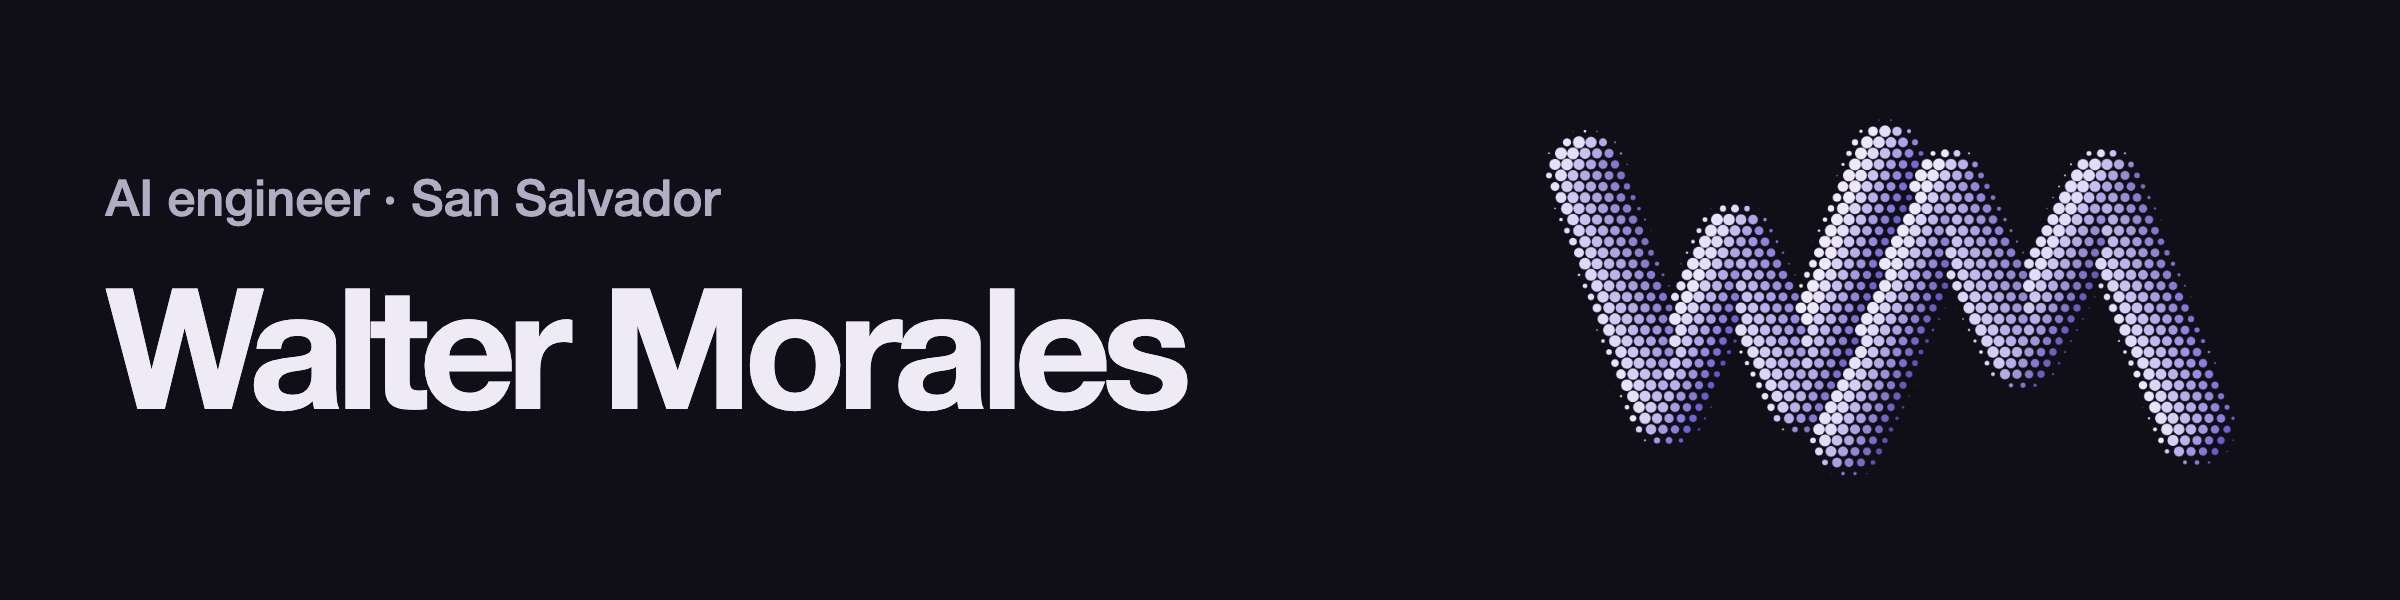
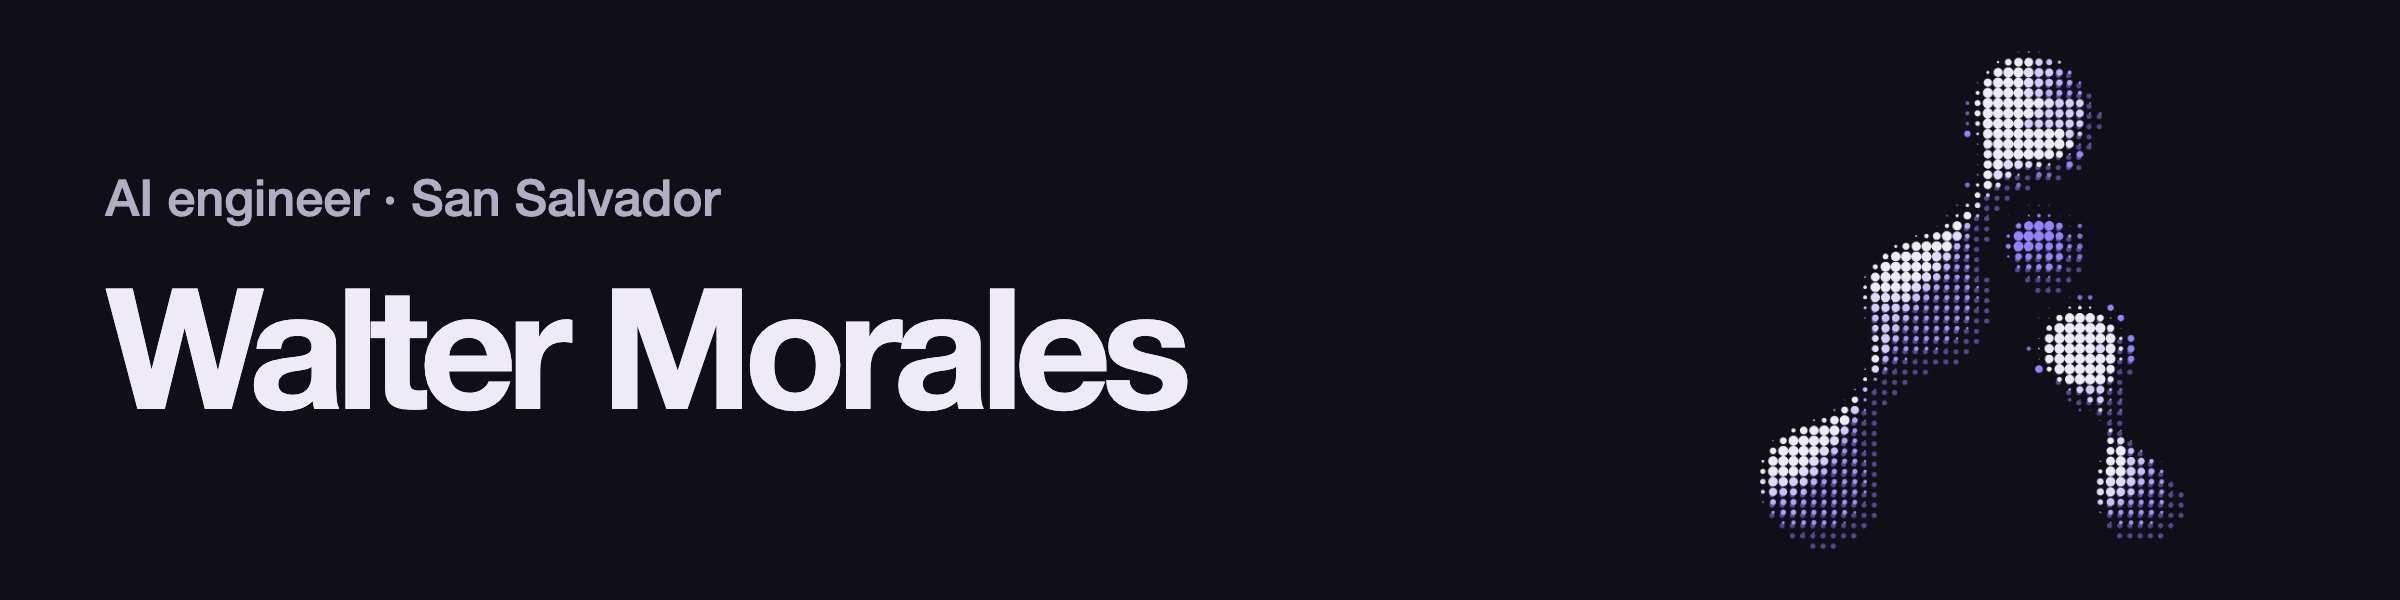
Broaden AI events coverage and use the Ai Labs halftone mark

Changed region(s): [[0.625, 0.09, 0.9375, 0.9]]

diff --git a/assets/profile-header.html b/assets/profile-header.html
@@ -21,7 +21,7 @@
     .intro { z-index: 1; }
     .intro p { margin: 0 0 1.25vw; font-size: 2.1vw; color: #b2adc3; font-weight: 500; }
     .intro h1 { margin: 0; font-size: 7vw; font-weight: 600; letter-spacing: -.055em; line-height: 1.04; }
-    canvas { position: absolute; right: 3.7%; width: 34%; aspect-ratio: 340 / 205; }
+    .brand-mark { position: absolute; right: 9%; height: 83%; width: auto; }
   </style>
 </head>
 <body>
@@ -30,49 +30,8 @@
       <p>AI engineer · San Salvador</p>
       <h1>Walter Morales</h1>
     </div>
-    <canvas width="1020" height="615" aria-hidden="true"></canvas>
+    <!-- Static dark-theme print from the Ai Labs homepage hero canvas. -->
[1 lines of base64/hex data omitted]
   </header>
-  <script>
-    // Sample the strokes on a staggered grid, shading each dot by its distance
-    // from the stroke axis and the position of the upper-left light source.
-    const context = document.querySelector('canvas').getContext('2d');
-    context.scale(3, 3);
-    const strokes = [
-      [[20, 45], [54, 143], [82, 75], [111, 138], [145, 41]],
-      [[130, 155], [171, 52], [202, 119], [236, 52], [274, 151]]
-    ];
-    function nearestStroke(x, y) {
-      let nearest = { distance: Infinity };
-      for (const path of strokes) {
-        for (let i = 1; i < path.length; i++) {
-          const [ax, ay] = path[i - 1];
-          const dx = path[i][0] - ax, dy = path[i][1] - ay;
-          const fraction = Math.max(0, Math.min(1, ((x - ax) * dx + (y - ay) * dy) / (dx * dx + dy * dy)));
-          const offsetX = x - ax - dx * fraction, offsetY = y - ay - dy * fraction;
-          const distance = Math.hypot(offsetX, offsetY);
-          if (distance < nearest.distance) nearest = { distance, offsetX, offsetY };
-        }
-      }
-      return nearest;
-    }
-    const clamp = n => Math.max(0, Math.min(1, n));
-    for (let row = 0; row < 44; row++) {
-      for (let column = 0; column < 71; column++) {
-        const x = column * 5 + (row % 2) * 2.5, y = row * 4.6;
-        const stroke = nearestStroke(x - 18, y - 4);
-        const edge = clamp((18 - stroke.distance) / 5);
-        if (!edge) continue;
-        const light = clamp(.66 - (stroke.offsetX * .85 + stroke.offsetY * .52) / 26);
-        const wave = .5 + .5 * Math.cos(x * .031 + y * .025);
-        const upper = [226 + 13 * wave, 220 + 13 * wave, 255];
-        const lower = [76, 61, 170 + 30 * wave];
-        const tint = lower.map((channel, i) => Math.round(channel + (upper[i] - channel) * light));
-        context.fillStyle = 'rgb(' + tint.join(',') + ')';
-        context.beginPath();
-        context.arc(x, y, edge * (1.32 + 1.2 * light), 0, Math.PI * 2);
-        context.fill();
-      }
-    }
-  </script>
 </body>
 </html>

diff --git a/README.md b/README.md
@@ -1,22 +1,24 @@
-<p><img src="./assets/profile-header.png" width="100%" alt="Walter Morales · AI engineer in San Salvador, El Salvador"></p>
+<p><img src="./assets/profile-header.png" width="100%" alt="Walter Morales · AI engineer in San Salvador, alongside the Ai Labs mark"></p>
 
-<p>I build AI products for teams across Latin America. Most projects start with a workflow someone already knows by heart. I connect an agent to the tools they use, then build evaluations around the decisions they need to trust.</p>
+<p>I’m Walter, an AI engineer and founder in San Salvador. I build software with teams across Latin America, and I bring people together in El Salvador to learn what they can do with AI.</p>
 
-<p><a href="https://wmorales.dev/en"><strong>Explore my work ↗</strong></a> &nbsp; · &nbsp; <a href="https://wmorales.dev/en/book">Book a call</a> &nbsp; · &nbsp; <a href="https://linkedin.com/in/wmoralesdev">LinkedIn</a></p>
+<p><a href="https://wmorales.dev/"><strong>wmorales.dev ↗</strong></a> &nbsp; · &nbsp; <a href="https://www.ailabs.sv/en/events">AI events</a> &nbsp; · &nbsp; <a href="https://wmorales.dev/en/book">Book a call</a></p>
+
+<h2>AI events in El Salvador</h2>
+
+<p>I host hackathons where developers build with AI, and demo days where business leaders can see an automation run and ask how it works. I also teach hands-on workshops in Spanish and English.</p>
+
+<p>Across <strong>75+ events</strong>, more than <strong>3,000 people</strong> have taken part. <a href="https://www.ailabs.sv/en/events">See the events and photos ↗</a></p>
 
 <h2>What I’m building</h2>
 
 <h3><a href="https://ailabs.sv/">Ai Labs</a> · Co-Founder</h3>
-<p>I co-founded Ai Labs in San Salvador to help teams put AI to use in their day-to-day operations. We build around the tools they already have, whether they’re preparing quotes, tracking inventory, or following up with customers. Then we train the people who will run the software.</p>
+<p>At Ai Labs, we start by sitting down with the people who do the work. Preparing a quote or chasing a sales follow-up can mean moving the same information between several tools. We connect those tools, automate the repetitive steps, and teach the team how to run what we build.</p>
 
 <h3><a href="https://mediconecto.com/">MediConecto</a> · Founder</h3>
-<p>I built MediConecto around a familiar problem in El Salvador. Finding a doctor who takes your insurance can mean an afternoon on the phone. Patients can now search by specialty, city, or insurance and book online for free. Clinics can manage their schedules and patient records in the same product.</p>
+<p>I built MediConecto so finding a doctor in El Salvador could start with a search instead of a phone call. Patients can find a doctor who takes their insurance and request an appointment online for free. The request goes straight to the clinic’s schedule, and the patient gets an email when it’s confirmed.</p>
 
-<h2>Developer community</h2>
-
-<p>I organize Cafe Cursor meetups and hackathons in El Salvador and teach hands-on workshops in Spanish and English. What started around coding tools has grown into a community of <strong>1,000+ builders</strong>. Across <strong>75+ events</strong>, we’ve welcomed <strong>3,000+ distinct attendees</strong>.</p>
-
-<h3>Ambassador roles</h3>
+<h2>Ambassador roles</h2>
 
 <ul>
   <li><strong>Build and Bot Ambassadors Regional Lead</strong></li>
@@ -25,10 +27,8 @@
   <li>Mistral Ambassador</li>
 </ul>
 
-<p><a href="https://photos.app.goo.gl/qNSHWVYZwThjrUuY9">Cursor Hackathon II photos ↗</a> &nbsp; · &nbsp; <a href="https://photos.app.goo.gl/X4gF3SAVKAG665gb9">Cafe Cursor III photos ↗</a></p>
+<h2>Engineering</h2>
 
-<h2>On the engineering side</h2>
+<p>I’ve spent more than six years building software, mostly with TypeScript, React, Next.js, .NET, and PostgreSQL. These days I build agents that can use a team’s data and tools. A big part of that work is writing evaluations so we can tell when a change actually makes the agent better.</p>
 
-<p>I’ve spent more than six years building software. My stack is TypeScript, Next.js, React, and .NET, with PostgreSQL on AWS or Azure. These days I spend much of my time integrating models into existing products, connecting agents to data through MCP, and helping engineers review and test code written with Codex, Cursor, and Claude Code.</p>
-
-<p><a href="mailto:hello@wmorales.dev">hello@wmorales.dev</a> &nbsp; · &nbsp; <a href="https://wmorales.dev/">Sitio en español ↗</a></p>
+<p><a href="mailto:hello@wmorales.dev">hello@wmorales.dev</a> &nbsp; · &nbsp; <a href="https://linkedin.com/in/wmoralesdev">LinkedIn</a></p>
